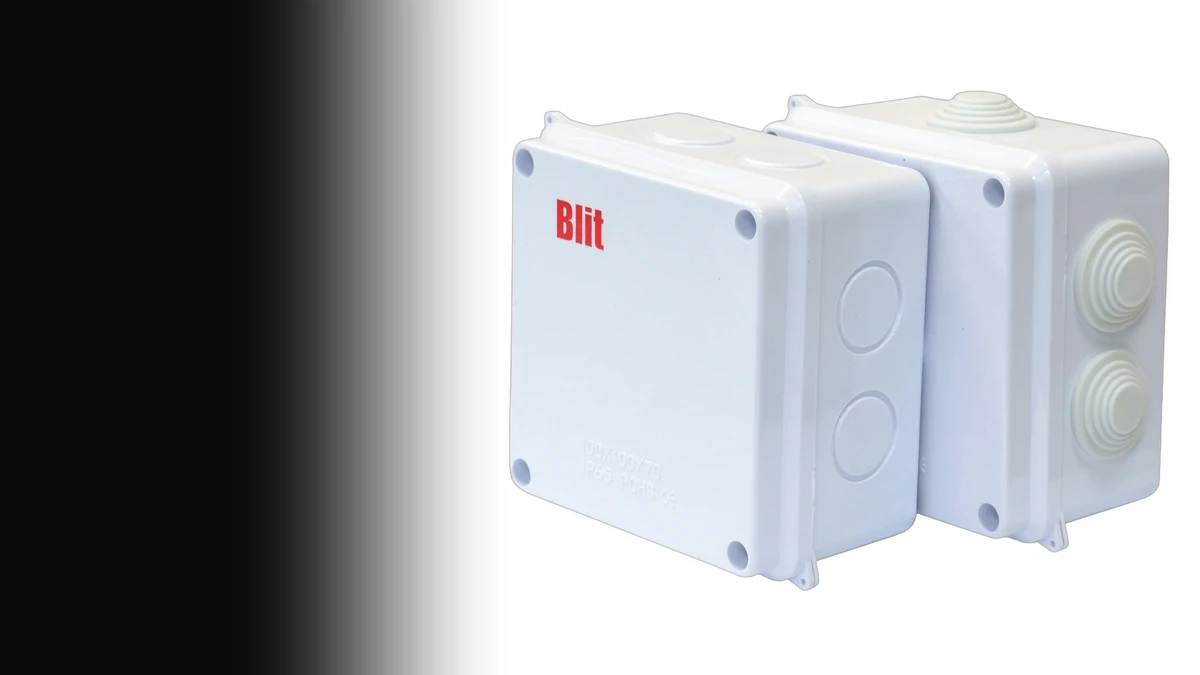
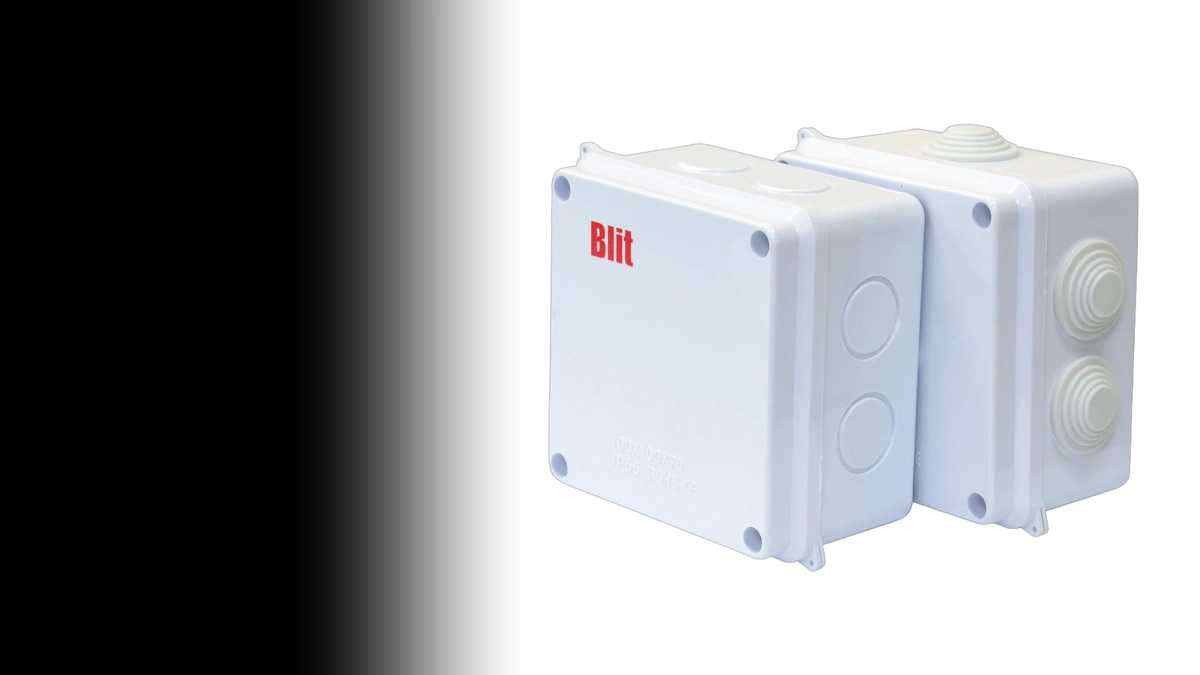
feat(homepage): optimize Installation Boxes category card with properly scaled and positioned render

Changed region(s): [[0.2158, 0.0, 0.9867, 1.0]]

diff --git a/index.html b/index.html
@@ -402,7 +402,7 @@
         <!-- Card 6: Installation Boxes -->
         <div class="category-card reveal reveal-delay-2" data-category="installation_boxes">
           <div class="card-img-box full-bleed">
-            <img src="./assets/products/installation_boxes/installation_boxes_card.webp?v=3000" alt="Installation Boxes Collection" loading="lazy">
+            <img src="./assets/products/installation_boxes/installation_boxes_card.webp?v=4000" alt="Installation Boxes Collection" loading="lazy">
             <span class="category-badge">Installation Boxes</span>
           </div>
           <div class="card-content">
